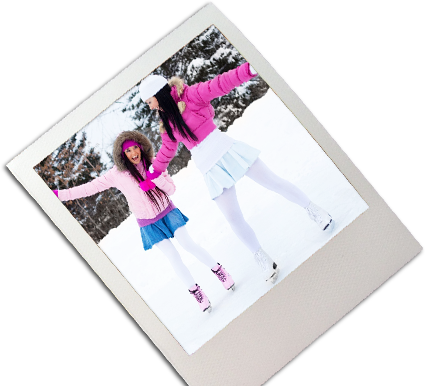
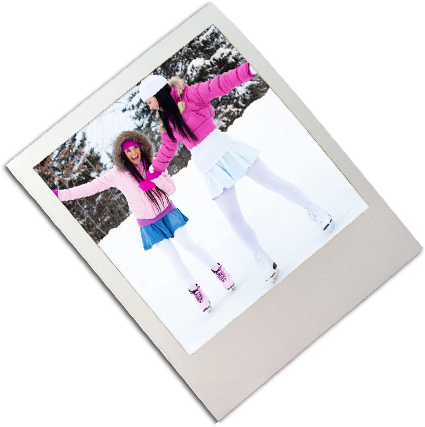
760 max height resolution statement

diff --git a/css/style.css b/css/style.css
@@ -177,6 +177,9 @@ header h3, header h5 {
 	padding:0;
 	margin:0;
 }
+header h3 {
+	cursor:pointer;
+}
 header h5 {
 	position:absolute;
 	top:20px;
@@ -457,7 +460,7 @@ section > div {
 	bottom:-48%;
 	display:block;
 	width:425px;
-	height:386px;
+	height:427px;
 	background:url('../img/photo7.png') no-repeat center center;
 }
 .type4 .photo2 {
@@ -602,7 +605,7 @@ section > div {
 	margin:0 36px 0 40px;
 }
 
-@media screen and (max-width: 1600px) {
+@media screen and (max-width: 1600px), screen and (max-height: 900px) {
 	.welcome .logo {
 		left:6%;
 	}
@@ -638,7 +641,7 @@ section > div {
 		right:11%;
 	}
 }
-@media screen and (max-width: 1400px) {
+@media screen and (max-width: 1400px), screen and (max-height: 820px) {
 	.welcome .logo {
 		left:5%;
 		width:271px;
@@ -707,7 +710,7 @@ section > div {
 	}
 	.carousel .jcarousel-item > div {
 		height:208px;
-		padding:25px 5px 15px;
+		padding:25px 5px 5px;
 		background:#ffffff;
 	}
 	.carousel .jcarousel-item > div > div {
@@ -963,4 +966,111 @@ section > div {
 	-webkit-box-shadow:0 0 15px rgba(0,0,0,0.3);
 	-moz-box-shadow:0 0 15px rgba(0,0,0,0.3);
 	box-shadow:0 0 15px rgba(0,0,0,0.3);
+}
+@media screen and (max-height: 760px) {
+	.tip {
+		margin-top:-62px;
+	}
+	.tip p {
+		font-size:18px;
+		line-height:22px;
+	}
+	.welcome .phone {
+		left:2%;
+		width:306px;
+		height:327px;
+		background-size:100% 100%;
+	}
+	.welcome .photo1 {
+		right:-5%;
+		width:181px;
+		height:253px;
+		background-size:100% 100%;
+	}
+	.welcome .gloves {
+		width:485px;
+		height:458px;
+		margin:-213px 0 0 -163px;
+		background-size:100% 100%;
+	}
+	.phone {
+		width:378px;
+		height:400px;
+		background-size:100% 100%;
+	}
+	.type1 .phone {
+		left:-10%;
+	}
+	.type1 .photo1 {
+		right:-7%;
+		width:290px;
+		height:314px;
+		background-size:100% 100%;
+	}
+	.type2 .photo1 {
+		left:-8%;
+		width:306px;
+		height:323px;
+		background-size:100% 100%;
+	}
+	.type2 .photo2 {
+		right:1%;
+		width:297px;
+		height:326px;
+		background-size:100% 100%;
+	}
+	.type3 .photo1 {
+		left:-5%;
+		width:290px;
+		height:315px;
+		background-size:100% 100%;
+	}
+	.type3 .photo2 {
+		right:0;
+		width:308px;
+		height:332px;
+		background-size:100% 100%;
+	}
+	.type4 .photo1 {
+		left:-5%;
+		width:326px;
+		height:328px;
+		background-size:100% 100%;
+	}
+	.type4 .photo2 {
+		right:-1%;
+		width:306px;
+		height:330px;
+		background-size:100% 100%;
+	}
+	.benefits .content {
+		-webkit-transform:scale(0.85);
+		-moz-transform:scale(0.85);
+		transform:scale(0.85);
+	}
+	.design .content {
+		-webkit-transform:scale(0.85);
+		-moz-transform:scale(0.85);
+		transform:scale(0.85);
+	}
+	.carousel {
+		-webkit-transform:scale(0.85);
+		-moz-transform:scale(0.85);
+		transform:scale(0.85);
+	}
+	.partnership .content {
+		-webkit-transform:scale(0.85);
+		-moz-transform:scale(0.85);
+		transform:scale(0.85);
+	}
+	.partnership ul {
+		padding:36px 0 20px;
+		margin:-10px 0 10px;
+	}
+	.partnership ul li {
+		margin-bottom:10px;
+	}
+	.partnership button {
+		margin:0 0 -30px;
+	}
 }

diff --git a/js/dynamic.js b/js/dynamic.js
@@ -161,6 +161,22 @@ $(document).ready(function() {
 					'top': '36%'
 				}, speed);
 			}
+            if ( index == 7 && direction == 'down' ) {
+                $('.type4 .photo1').stop().animate({
+					'bottom': '32%'
+				}, speed);
+                $('.type4 .photo2').stop().animate({
+					'top': '-45%'
+				}, speed);
+			}
+            if ( index == 8 && direction == 'up' ) {
+                $('.type4 .photo1').stop().animate({
+					'bottom': '-8%'
+				}, speed);
+                $('.type4 .photo2').stop().animate({
+					'top': '-15%'
+				}, speed);
+			}
         }
 	});
 	inner();
@@ -213,6 +229,11 @@ $(document).ready(function() {
 		$(this).focusout(function(){
 			$(this).attr('placeholder',$(this).data('holder'));
 		});
+	});
+	$('header h3').bind('click', function(event) {
+		$.fn.fullpage.moveTo(2);
+		$.fn.fullpage.moveTo(1);
+		event.preventDefault();
 	});
 });
 $(window).resize(function() {
